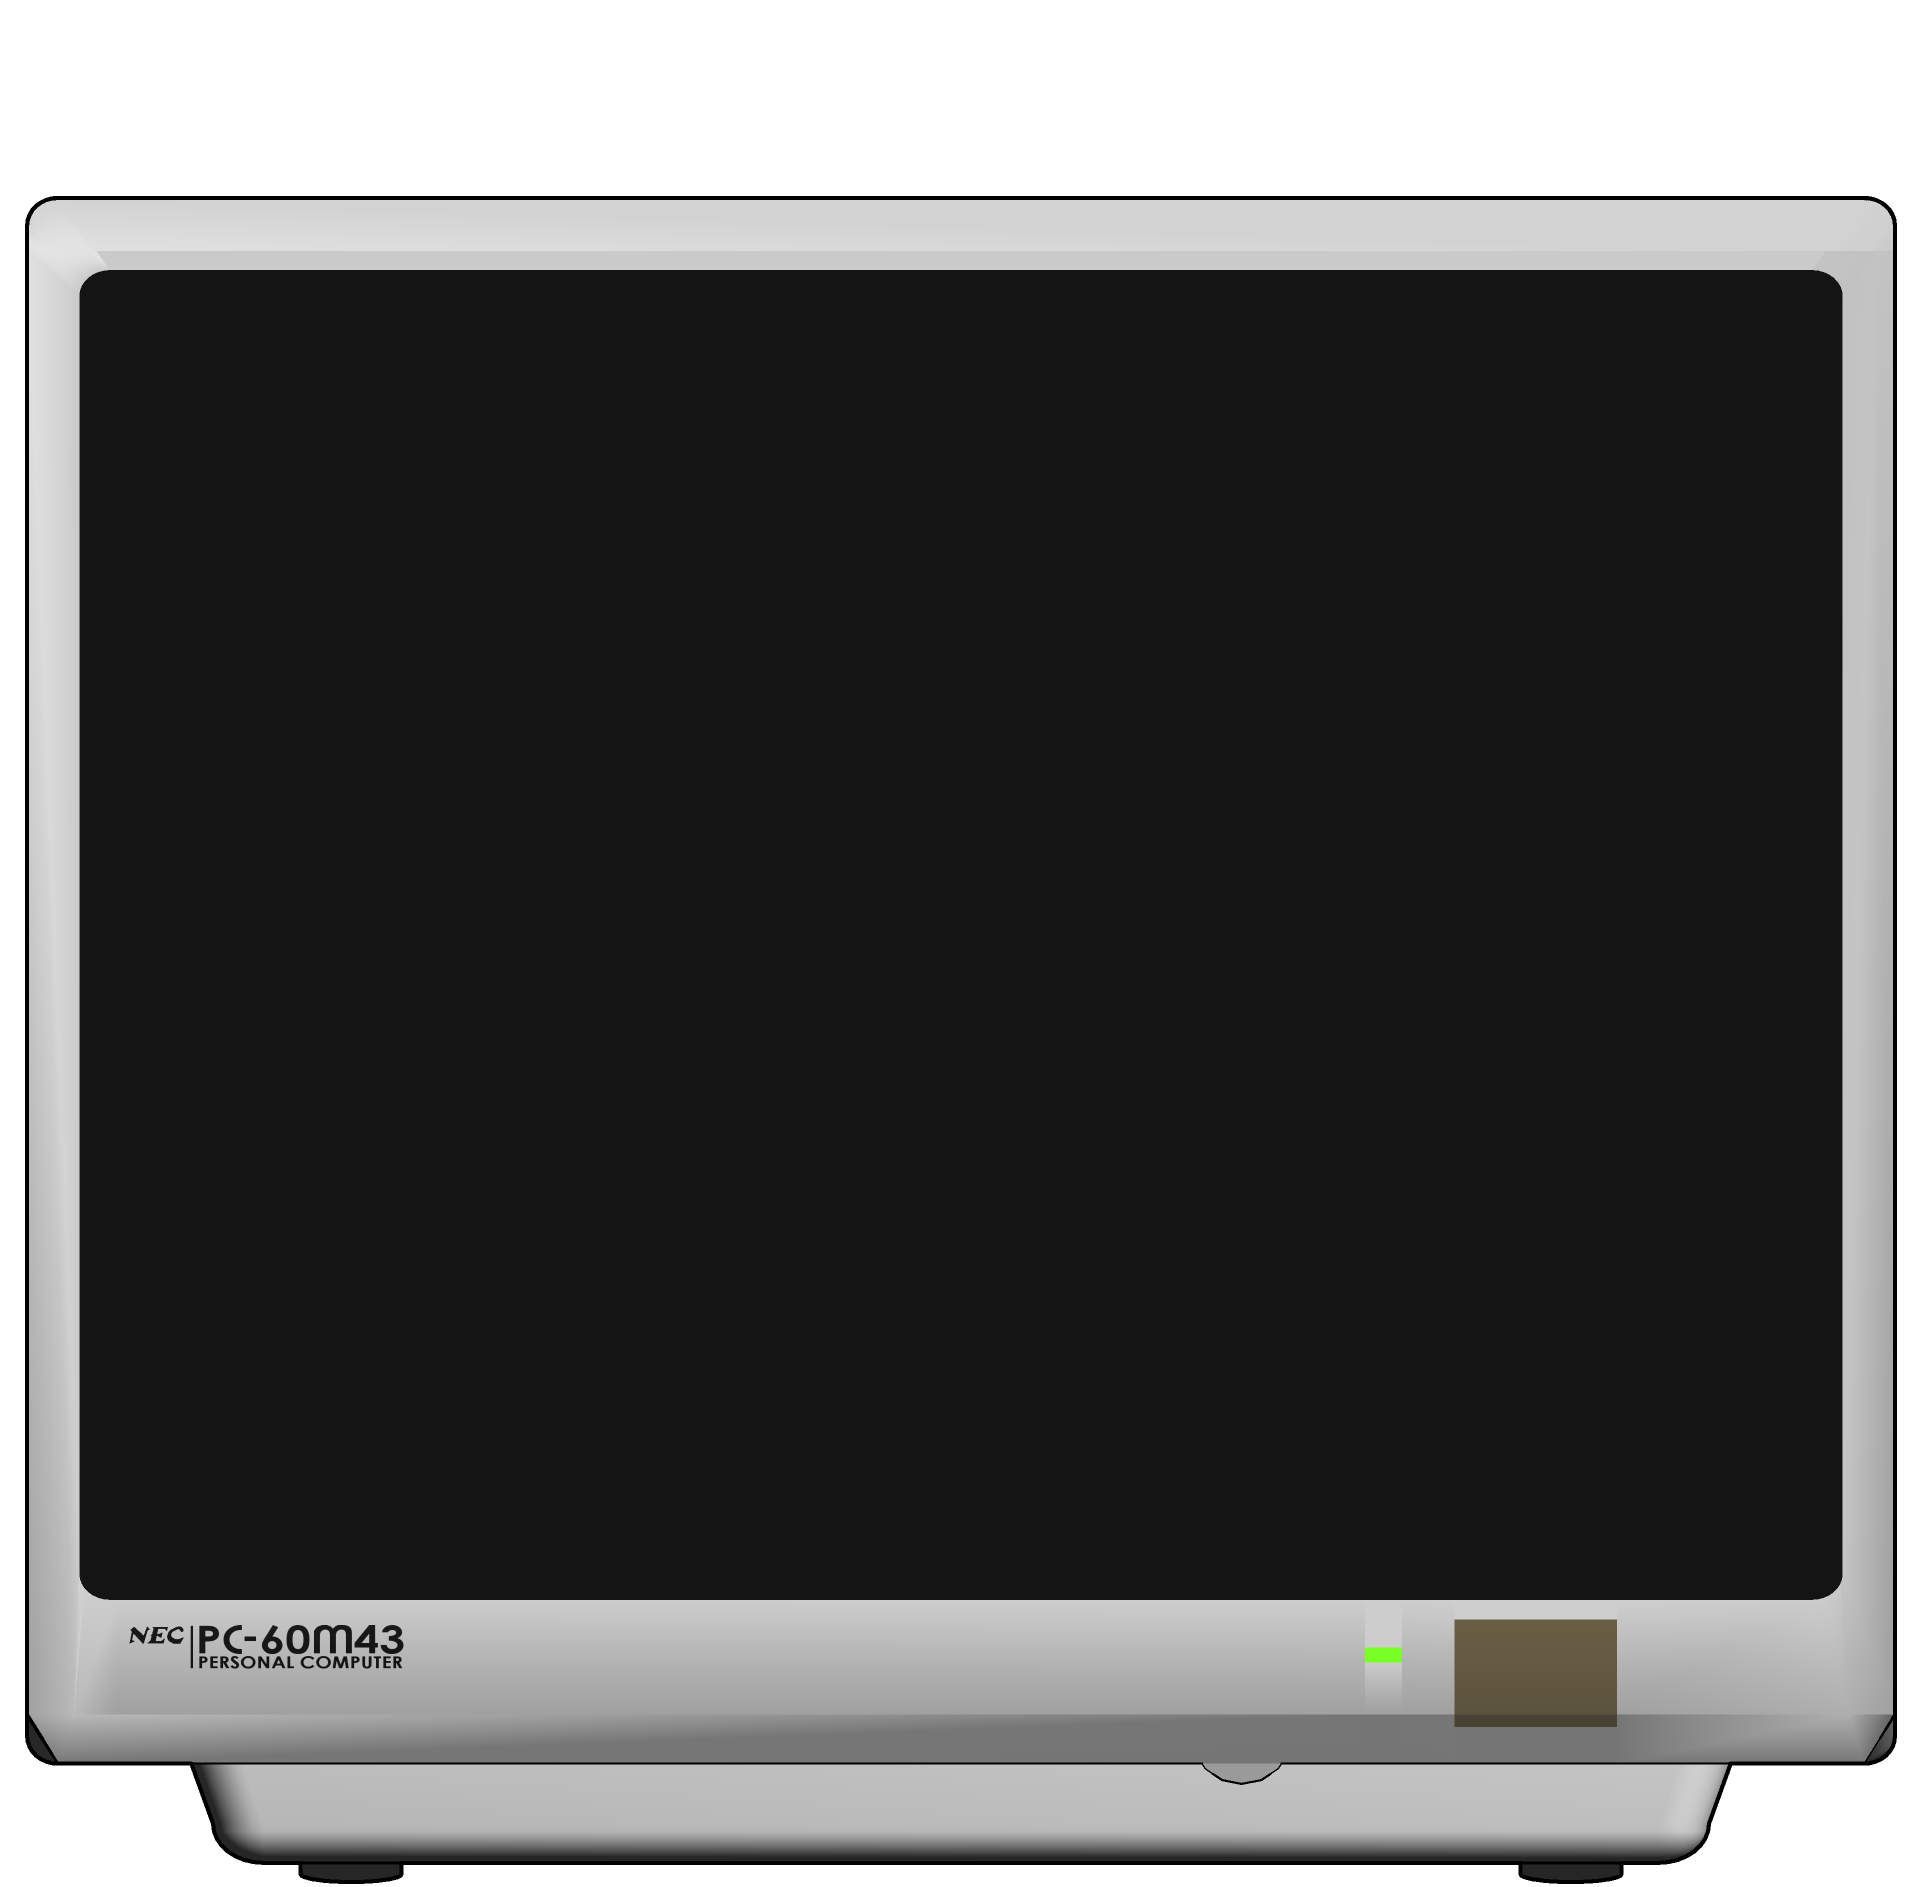
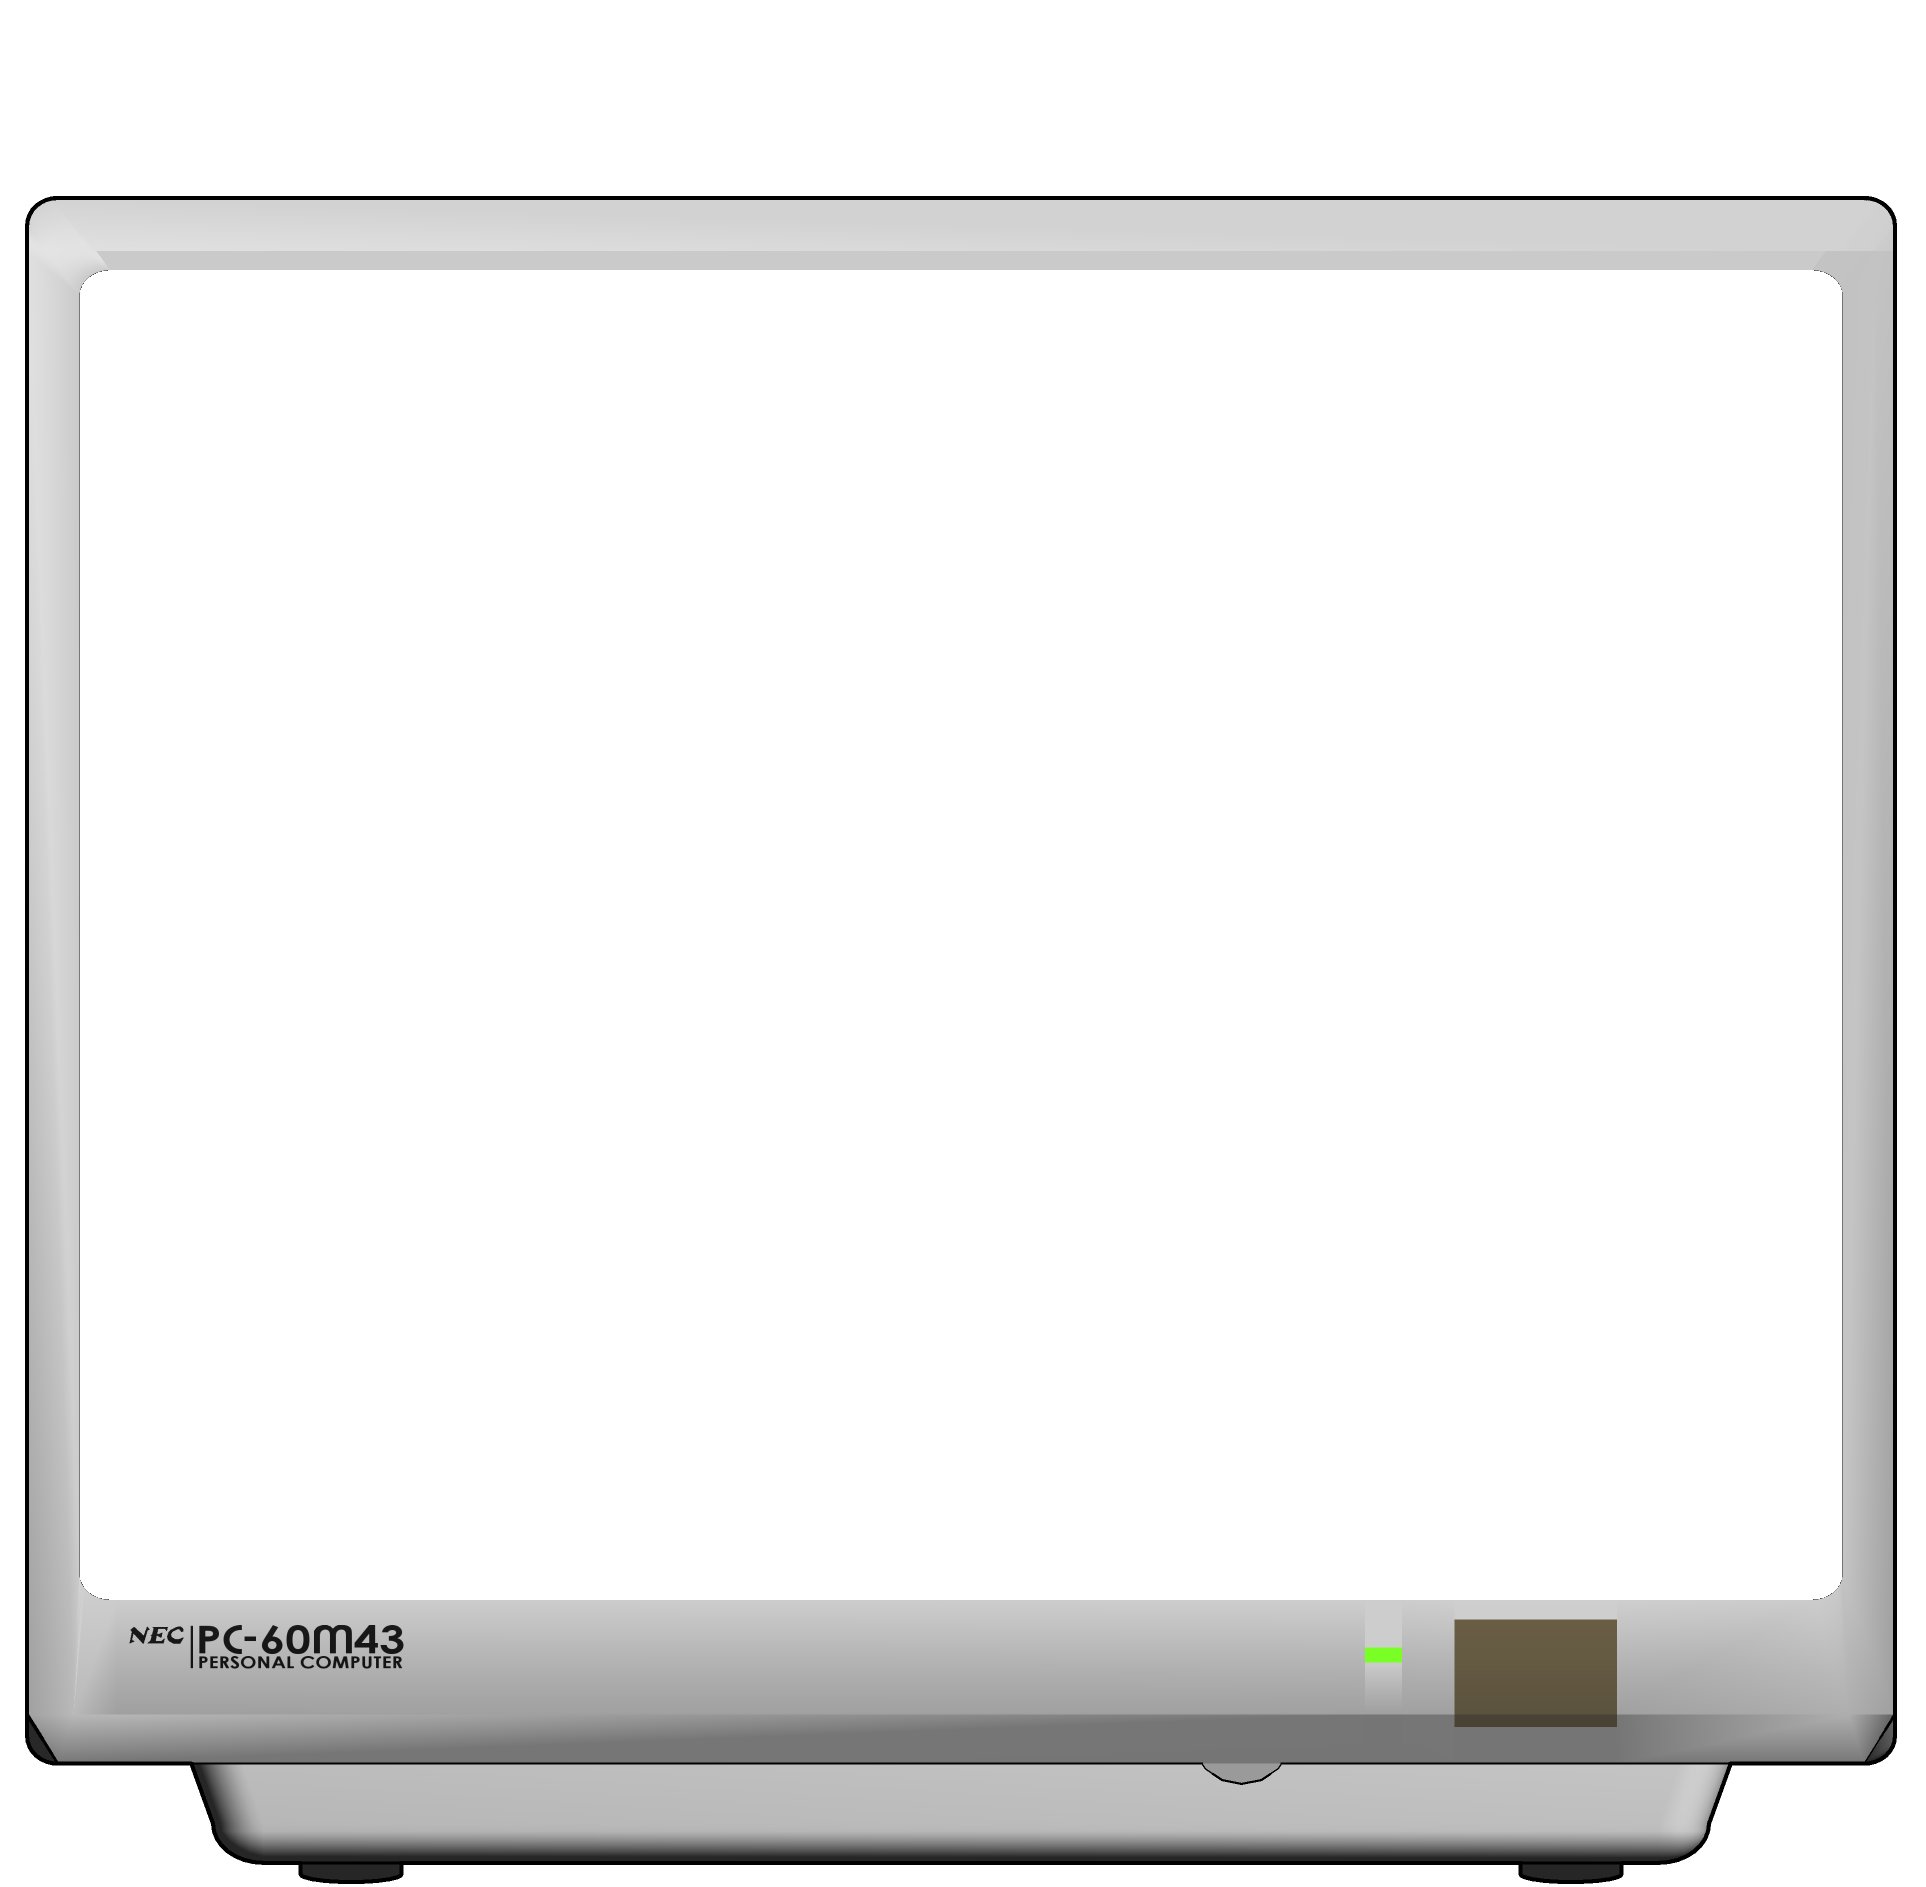
初代機のTILTモードにはPC-6042Kの画像を使うようにした。

diff --git a/src/Qt/qtp6vxapplication.cpp b/src/Qt/qtp6vxapplication.cpp
@@ -227,10 +227,20 @@ void QtP6VXApplication::clearLayout(HWINDOW Wh)
         #endif
             property("TILTEnabled").toBool()){
         //画面に対する、枠を含めたサイズの比率
-        const qreal merginRatio = 1.2;
-
-        QGraphicsPixmapItem* background = new QGraphicsPixmapItem(QPixmap::fromImage(QImage(":/res/background.png")));
+        qreal merginRatio = 1.0;
+        QGraphicsPixmapItem* background = NULL;
+        if(this->Cfg.GetModel() == 60){
+            //初代機の場合はPC-6042Kを使う
+            background = new QGraphicsPixmapItem(QPixmap::fromImage(QImage(":/res/background60.png")));
+            merginRatio = 1.45;
+        } else {
+            //それ以外の場合はPC-60m43を使う
+            background = new QGraphicsPixmapItem(QPixmap::fromImage(QImage(":/res/background.png")));
+            merginRatio = 1.2;
+        }
         background->setTransformationMode(Qt::SmoothTransformation);
+        //最前面に配置(他のアイテムのZ値はデフォルトの0)
+        background->setZValue(1);
         QTransform trans;
         //画像の拡大倍率
         qreal ratio = qMax(scene->width() / background->sceneBoundingRect().width(),
